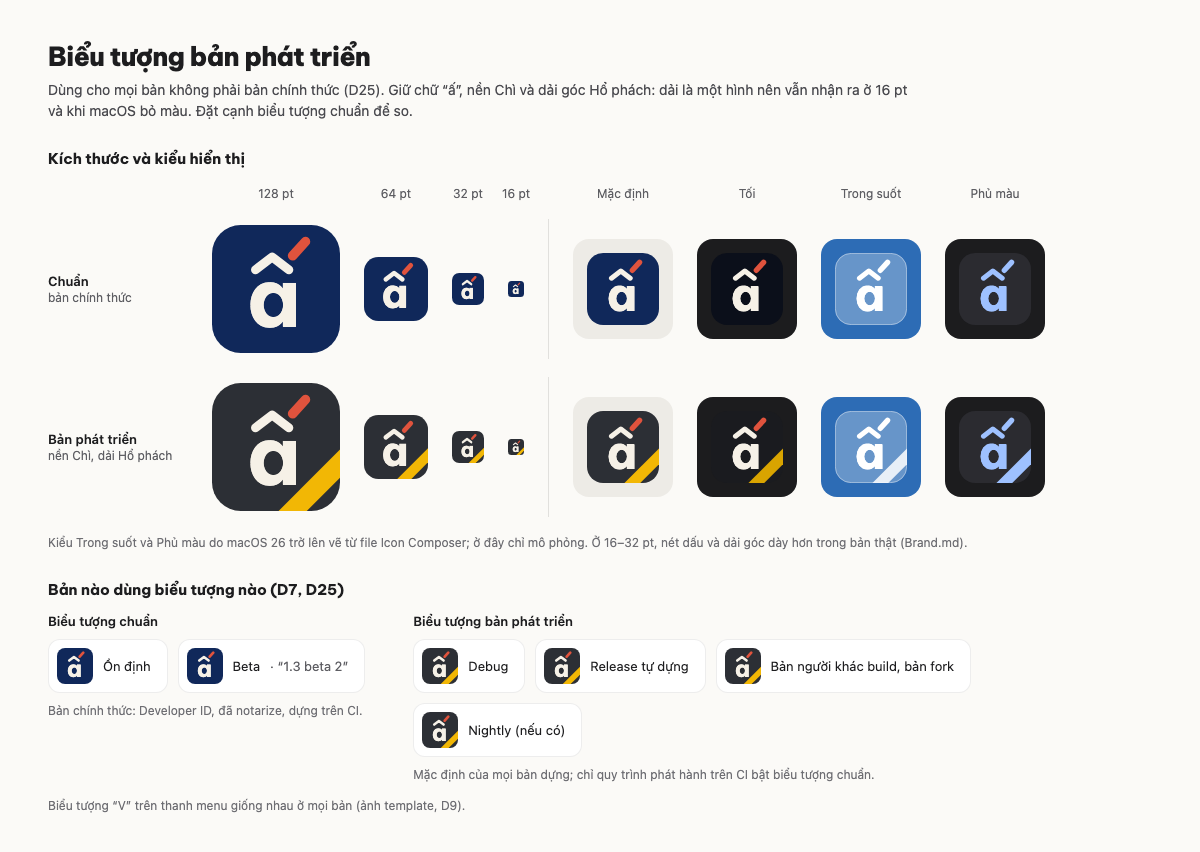
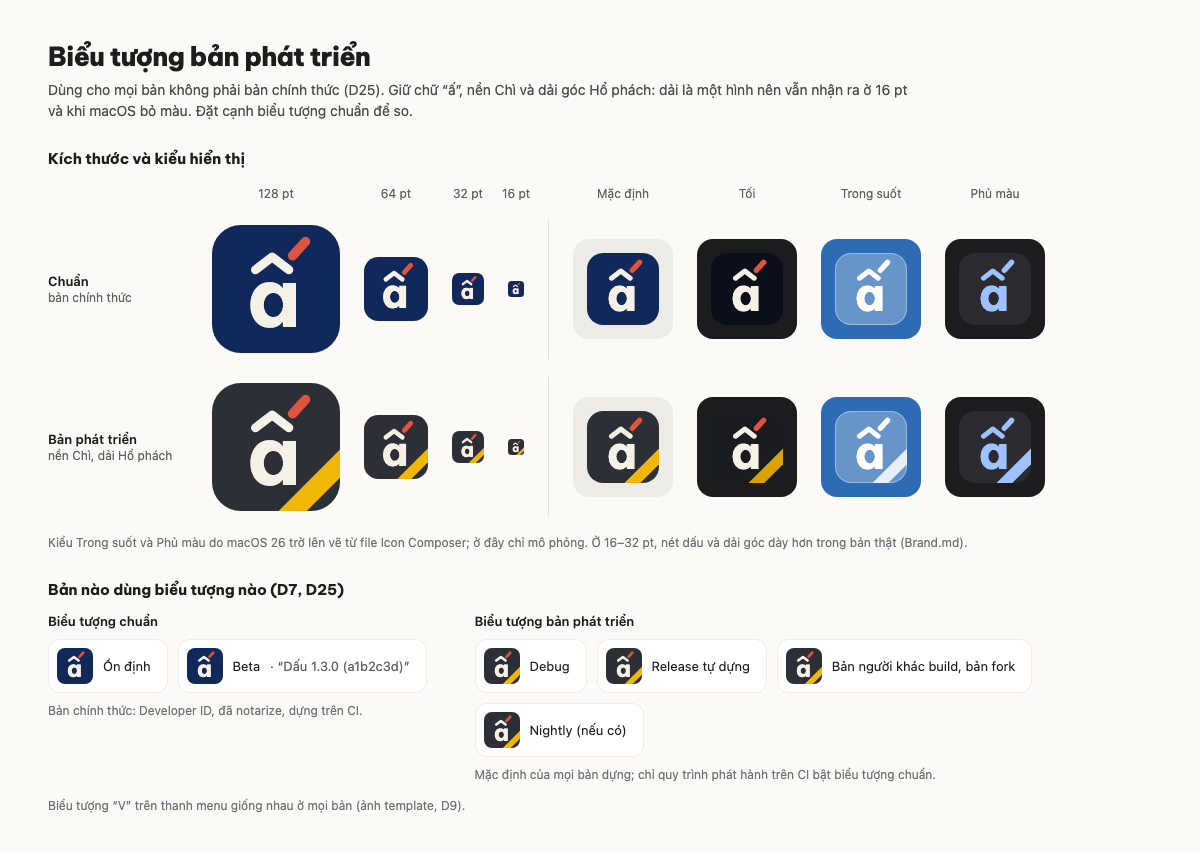
build(release): numeric display version; stable release is the last beta's binary
Follow Apple's numbering (D7, D25): CFBundleShortVersionString is always
X.Y.Z, "beta N" lives only in the tag, the GitHub pre-release title and the
appcast, and betas are told apart by the commit in parentheses. A stable tag
no longer rebuilds: it must sit on the last beta's commit, and the new
promote-release.sh drafts the stable release from that beta's DMG and dSYMs
(renamed, re-checked with codesign, stapler and spctl), leaving the appcast
as is.

- build-release.sh: X.Y.Z for every tag, no +1 for stable, refuses a stable
  tag and a second beta tag on the same commit; new output "label".
- release.yml: beta tags build, stable tags run promote-release.sh.
- Guard hook and scripts/README.md: promote-release.sh, side effect
  "changes GitHub".
- Releasing.md: beta and stable paths; the cask follows the newest published
  release while there is one channel.
- Canvas: Beta label on the development icon artboard.

Checked: zsh -n; --unsigned build of v0.1.0-beta.1 gives
CFBundleShortVersionString 0.1.0; v0.1.0 and a second beta on one commit
are refused. promote-release.sh past the gh download needs a published beta
(Releasing.md, "Còn phải thấy chạy thật").

Changed region(s): [[0.2467, 0.7019, 0.8325, 0.9155]]

diff --git a/docs/canvas/src/AppIconDev.dc.html b/docs/canvas/src/AppIconDev.dc.html
@@ -70,7 +70,7 @@ body{margin:0}
 <span class="lab">Biểu tượng chuẩn</span>
 <div style="display: flex; gap: 10px; flex-wrap: wrap">
 <span class="chip"><svg width="36" height="36" viewBox="0 0 100 100" aria-hidden="true"><rect width="100" height="100" rx="22.4" fill="#10285A"></rect><text x="48" y="80" text-anchor="middle" font-family="'Be Vietnam Pro', -apple-system, 'Helvetica Neue', sans-serif" font-weight="700" font-size="64" fill="#F6F1E7">a</text><path d="M34 35 L47 25 L60 35" fill="none" stroke="#F6F1E7" stroke-width="7" stroke-linecap="round" stroke-linejoin="round"></path><path d="M63 24 L73 13" fill="none" stroke="#E0533D" stroke-width="7.5" stroke-linecap="round"></path></svg>Ổn định</span>
-<span class="chip"><svg width="36" height="36" viewBox="0 0 100 100" aria-hidden="true"><rect width="100" height="100" rx="22.4" fill="#10285A"></rect><text x="48" y="80" text-anchor="middle" font-family="'Be Vietnam Pro', -apple-system, 'Helvetica Neue', sans-serif" font-weight="700" font-size="64" fill="#F6F1E7">a</text><path d="M34 35 L47 25 L60 35" fill="none" stroke="#F6F1E7" stroke-width="7" stroke-linecap="round" stroke-linejoin="round"></path><path d="M63 24 L73 13" fill="none" stroke="#E0533D" stroke-width="7.5" stroke-linecap="round"></path></svg>Beta <span style="color: #5e5e63">· “1.3 beta 2”</span></span>
+<span class="chip"><svg width="36" height="36" viewBox="0 0 100 100" aria-hidden="true"><rect width="100" height="100" rx="22.4" fill="#10285A"></rect><text x="48" y="80" text-anchor="middle" font-family="'Be Vietnam Pro', -apple-system, 'Helvetica Neue', sans-serif" font-weight="700" font-size="64" fill="#F6F1E7">a</text><path d="M34 35 L47 25 L60 35" fill="none" stroke="#F6F1E7" stroke-width="7" stroke-linecap="round" stroke-linejoin="round"></path><path d="M63 24 L73 13" fill="none" stroke="#E0533D" stroke-width="7.5" stroke-linecap="round"></path></svg>Beta <span style="color: #5e5e63">· “Dấu 1.3.0 (a1b2c3d)”</span></span>
 </div>
 <span class="hint">Bản chính thức: Developer ID, đã notarize, dựng trên CI.</span>
 </div>

diff --git a/docs/Releasing.md b/docs/Releasing.md
@@ -8,11 +8,12 @@ Phiên chính và subagent không cầm khoá: chứng chỉ, khoá App Store Co
 
 | Thành phần | Ở đâu |
 |---|---|
-| Script dựng bản phát hành (archive, xuất Developer ID, notarize, staple, DMG, appcast) | `scripts/release/build-release.sh` |
+| Script dựng bản phát hành (archive, xuất Developer ID, notarize, staple, DMG, appcast) |release/build-release.sh` |/| Script dựng một bản beta (archive, xuất Developer ID, notarize, staple, DMG, appcast) | `scripts/release/build-release.sh` |
+| Script quảng bá beta cuối thành bản ổn định (sao tài sản, không dựng) | `scripts/release/promote-release.sh` |/release/build-release.sh` |
 | Kiểm một bản build (biểu tượng, ký hiệu, khoá Sparkle, bộ gõ, chữ ký) | `scripts/release/check-build.sh` |
 | Sắp xếp cửa sổ DMG bằng Finder (chỉ CI) | `scripts/release/layout-dmg.sh` |
 | Test ở mỗi lần đẩy mã | `.github/workflows/test.yml` |
-| Tag `v*` dựng bản nháp trên GitHub Releases | `.github/workflows/release.yml` |
+| Tag `v*`: beta dựng bản nháp, bản ổn định quảng bá beta cuối, trên GitHub Releases | `.github/workflows/release.yml` |
 | Appcast, thư mục gốc của project Vercel | `site/appcast.xml` |
 
 Cách gọi và tuỳ chọn của từng script nằm ở đầu script.
@@ -52,25 +53,47 @@ Cách gọi và tuỳ chọn của từng script nằm ở đầu script.
 
 ## Phát hành một tag
 
+Hai đường theo tag; mọi tag bắt đầu bằng `v` và theo dạng dưới đây, dạng khác bị từ chối.
+
+| Tag | Số hiển thị (`CFBundleShortVersionString`) | Workflow làm gì |
+|---|---|---|
+| `v0.1.0-beta.1` | 0.1.0 | dựng một bản beta (đường beta, dưới) |
+| `v0.1.0-beta.2` | 0.1.0 | dựng một bản beta, trên commit mới |
+| `v0.1.0` | 0.1.0 (cùng tệp với beta cuối) | quảng bá beta cuối, không dựng (đường ổn định, dưới) |
+
+Số hiển thị luôn là ba số nguyên `X.Y.Z`, chữ "beta N" chỉ nằm ngoài tệp nhị phân: tên tag, tiêu đề bản phát hành trên GitHub (D7).
+
+### Đường beta
+
 1. Chắc chắn `main` xanh (workflow Test) và đã commit mọi thứ của bản này.
-2. Tag và đẩy tag: số hiển thị lấy từ tag (D7). Với hai bản thử của kế hoạch M7 bước 2, việc này công bố chúng lên appcast, nên cần người dùng đồng ý trước khi đẩy tag.
+2. Tag và đẩy tag. Với hai bản thử của kế hoạch M7 bước 2, việc này công bố chúng lên appcast, nên cần người dùng đồng ý trước khi đẩy tag.
 
    ```sh
    git tag v0.1.0-beta.1
    git push origin v0.1.0-beta.1
    ```
 
-   | Tag | Số hiển thị (`CFBundleShortVersionString`) |
-   |---|---|
-   | `v0.1.0-beta.1` | 0.1.0 beta 1 |
-   | `v1.3.0` | 1.3.0 |
-
-   Dạng khác bị từ chối.
-3. Workflow Release dựng bản ký, rồi tạo **bản nháp** trên GitHub Releases (đánh dấu pre-release nếu tag có `-beta.`) kèm DMG, dSYM và `appcast.xml` đã thêm bản mới. Chưa có gì được công bố: người dùng chưa thấy gì. Thiếu secret thì workflow dựng bản không ký (dưới) và chỉ lưu DMG thành artifact của lần chạy (7 ngày), không tạo bản nháp.
+   Mỗi beta cần một commit mới: script từ chối tag beta lên commit đã có tag beta khác, vì cùng commit thì cùng số build.
+3. Workflow Release dựng bản ký, rồi tạo **bản nháp** pre-release trên GitHub Releases (tiêu đề "Dấu 0.1.0 beta 1") kèm DMG, dSYM và `appcast.xml` đã thêm bản mới. Chưa có gì được công bố: người dùng chưa thấy gì. Thiếu secret thì workflow dựng bản không ký (dưới) và chỉ lưu DMG thành artifact của lần chạy (7 ngày), không tạo bản nháp.
 4. Kiểm bản nháp: log của workflow in từng bước đã làm hay bỏ qua, và `summary.txt`. Thử mở DMG đã tải về.
-5. **Công bố** (người dùng đồng ý một lần cho bản thử đầu, theo kế hoạch M7 bước 4): bấm Publish release trên GitHub; chép `appcast.xml` từ tài sản của bản đó vào `site/appcast.xml`, commit, đẩy lên `main` để Vercel xuất bản. Làm theo thứ tự này: nếu appcast lên trước, Sparkle trỏ vào địa chỉ DMG chưa có. Rồi cập nhật cask Homebrew ở `codefastlabs/homebrew-tap`.
+5. **Công bố** (người dùng đồng ý một lần cho bản thử đầu, theo kế hoạch M7 bước 4): bấm Publish release trên GitHub; chép `appcast.xml` từ tài sản của bản đó vào `site/appcast.xml`, commit, đẩy lên `main` để Vercel xuất bản. Làm theo thứ tự này: nếu appcast lên trước, Sparkle trỏ vào địa chỉ DMG chưa có. Rồi cập nhật cask Homebrew ở `codefastlabs/homebrew-tap` trỏ vào DMG của bản này: khi chỉ có một kênh, cask theo bản mới nhất đã công bố, kể cả beta (bản thử đầu là beta và phải cài được bằng `brew`, Roadmap M7). Khi có kênh Beta (D7), cask chỉ theo bản ổn định.
 
-**Số build.** `CFBundleVersion` mặc định là mười lần số commit của HEAD (`git rev-list --count`), cộng 1 với tag ổn định, nên tăng theo lịch sử, và bản ổn định dựng lại từ đúng commit của bản beta cuối (D7) vẫn lớn hơn số của beta đó. Cờ `--build-number` của script đặt số khác khi cần.
+### Đường ổn định (quảng bá beta cuối)
+
+Bản ổn định là tệp nhị phân của bản beta cuối, giữ nguyên, không dựng lại (như bản ứng viên của Apple): cùng DMG, chữ ký, vé notarize và `CFBundleVersion`. Muốn sửa gì sau beta cuối thì phát thêm một beta, không sửa rồi tag bản ổn định.
+
+1. Beta cuối đã công bố (bước 5 ở trên): item của nó đã nằm trong `site/appcast.xml` cho mọi người, nên bản ổn định **không thêm item** vào appcast (cùng `sparkle:version`). Khi có kênh Beta (sau bản thử đầu, D7) thì đổi kênh của item; chưa làm.
+2. Tag **đúng commit của tag beta cuối** rồi đẩy tag:
+
+   ```sh
+   git tag v0.1.0 v0.1.0-beta.2
+   git push origin v0.1.0
+   ```
+
+   Workflow Release chạy `scripts/release/promote-release.sh`: tìm tag `v0.1.0-beta.N` cùng commit (N lớn nhất), tải DMG và dSYM của bản phát hành đó, đổi tên thành `Dau-0.1.0.dmg` và `Dau-0.1.0.dSYMs.zip` (đổi tên không đổi chữ ký hay vé notarize: cả hai nằm trên nội dung DMG; script kiểm lại bằng `codesign`, `stapler validate`, `spctl` và số hiển thị của Dau.app trong DMG), rồi tạo **bản nháp** không pre-release. Script từ chối khi tag không trỏ vào commit của tag beta nào, khi beta chưa công bố, hay khi đã có bản phát hành cùng tag. Chạy thử trên máy mà không tạo gì: `scripts/release/promote-release.sh --tag v0.1.0 --dry-run`.
+3. **Công bố:** bấm Publish release trên GitHub. Không đụng `site/appcast.xml`. Rồi cập nhật cask Homebrew ở `codefastlabs/homebrew-tap` trỏ vào DMG của bản ổn định (D6).
+
+**Số build.** `CFBundleVersion` mặc định là mười lần số commit của HEAD (`git rev-list --count`), nên tăng theo lịch sử; mỗi bản dựng một số, và số này cùng commit trong ngoặc phân biệt các beta của một phiên bản (chúng cùng số hiển thị). Bản ổn định không có số riêng: nó mang số của beta cuối. Cờ `--build-number` của script đặt số khác khi cần.
 
 ## Chế độ không ký
 
@@ -99,3 +122,5 @@ Bố cục (kích thước cửa sổ, vị trí biểu tượng, nền) nằm t
 ## Còn phải thấy chạy thật
 
 Phần ký, notarize, staple, `layout-dmg.sh` và `generate_appcast` ký thật cần tài khoản hoặc Finder nên chưa chạy ở máy phát triển; chế độ không ký đã chạy trọn tới DMG. Lần thấy chúng chạy đầu tiên là bước 2 của kế hoạch M7 (hai tag thử sau bước 0): sửa script theo log của lần đó.
+
+Đường quảng bá (`promote-release.sh`) cũng chưa chạy thật: cần một bản beta đã công bố trên GitHub (bước 2 của kế hoạch M7) để `gh release download`, kiểm `codesign` / `stapler` / `spctl` trên tệp đã đổi tên và tạo bản nháp. Lần thấy nó chạy đầu tiên là lúc quảng bá beta cuối của 0.1.0: chạy `--dry-run` trước, và sửa script hay tài liệu này theo log. Việc đổi tên DMG không làm hỏng chữ ký hay vé notarize là suy từ cách hai thứ này gắn vào nội dung tệp; `--dry-run` là lần kiểm thật.

diff --git a/docs/Roadmap.md b/docs/Roadmap.md
@@ -27,7 +27,7 @@ Kế hoạch của các mốc này: [`docs/history/Plans.md`](history/Plans.md).
 
 ## M7 — Phát hành
 
-Mục tiêu: bản thử đầu "0.1.0 beta 1" (D7 (Cập nhật và loại bản dựng)) tới tay người dùng qua DMG, Sparkle và Homebrew. Kế hoạch theo bước và việc của từng bên: [`docs/Progress.md`](Progress.md) mục "Kế hoạch M7"; phần đã xong và còn lại cũng theo mục đó, danh sách dưới đây không đánh dấu từng dòng.
+Mục tiêu: bản thử đầu (tag `v0.1.0-beta.1`, D7 (Cập nhật và loại bản dựng)) tới tay người dùng qua DMG, Sparkle và Homebrew. Kế hoạch theo bước và việc của từng bên: [`docs/Progress.md`](Progress.md) mục "Kế hoạch M7"; phần đã xong và còn lại cũng theo mục đó, danh sách dưới đây không đánh dấu từng dòng.
 
 - Trước khi phát hành: chạy bài đo của D42, và ghi bộ nhớ (RSS) tiến trình bộ gõ của bản Release cạnh số của bản Debug trong cùng lượt (D42 ghi chênh lệch này là chưa đo).
 - Ký Developer ID, notarize, DMG.
@@ -39,7 +39,7 @@ Mục tiêu: bản thử đầu "0.1.0 beta 1" (D7 (Cập nhật và loại bả
 - Loại bản dựng (D7, D25 (Nhận diện)):
   - cờ build chọn biểu tượng chuẩn, chỉ quy trình phát hành trên CI đặt: bản build phát hành truyền `DAU_OFFICIAL=YES` cho `xcodebuild` (`project.yml`), rồi kiểm bản build: `CFBundleIconName` của Dấu.app và bộ gõ là `AppIcon`, không phải `AppIconDev`;
   - cũng bước kiểm đó: binary của Dấu.app và bộ gõ đã lược ký hiệu cục bộ (`nm`; archive lược, `xcodebuild build` thì không), và dSYM của mỗi bản phát hành được lưu lại để đọc được báo lỗi crash;
-  - số build tăng dần, số hiển thị có chữ beta.
+  - số build tăng dần, số hiển thị ba số không có chữ beta; bản ổn định là tệp của beta cuối, không dựng lại.
 - `.gitignore`: ghim phiên bản Sparkle chính xác trong `project.yml` (vì `Package.resolved` bị bỏ qua); thêm `*.p8`, `*.pem`, `*.key`, `*.p12`, `*.xcarchive`.
 - Biểu tượng thật dựng bằng Icon Composer, thay biểu tượng tạm ([`docs/Brand.md`](Brand.md), mục "Hiện trạng").
 - Xuất các file nhận diện bản thử đầu cần theo [`docs/Brand.md`](Brand.md): biểu tượng app, biểu tượng bản phát triển, ảnh template thanh menu, ảnh xem trước GitHub, nền DMG. Favicon, ảnh Open Graph và thẻ meta đi cùng website (M8).
@@ -51,7 +51,7 @@ Mục tiêu: bản thử đầu "0.1.0 beta 1" (D7 (Cập nhật và loại bả
   - máy để tiếng Anh hẳn (menu app, tên "Dấu" trong Finder);
   - các sheet ở chế độ tối;
   - danh sách "+" của System Settings có Dấu (nhìn bằng mắt).
-- Xong khi: bản 0.1.0 beta 1 có trên GitHub Releases, cài được từ DMG và bằng `brew install --cask codefastlabs/tap/dau`, Sparkle cập nhật được từ một bản chính thức trước đó; kiểm toán ĐẠT.
+- Xong khi: bản `v0.1.0-beta.1` có trên GitHub Releases, cài được từ DMG và bằng `brew install --cask codefastlabs/tap/dau`, Sparkle cập nhật được từ một bản chính thức trước đó; kiểm toán ĐẠT.
 
 ### Sau bản thử đầu
 

diff --git a/docs/history/DecisionsLog.md b/docs/history/DecisionsLog.md
@@ -94,6 +94,7 @@ Lưu trữ cách từng nguyên tắc và quyết định trong `docs/Decisions.
 
 - 17/11/2026 (người dùng chốt khi lập kế hoạch M7): thêm URL appcast `https://dau.codefastlabs.com/appcast.xml` (chọn thay cho GitHub Pages, buộc URL vào GitHub, và `releases/latest/download`, không tính bản prerelease); chỉ bản chính thức có URL appcast; kênh Beta bật trong app, không có cask riêng; bản thử đầu "0.1.0 beta 1". Ba ý về loại bản đến từ câu hỏi mở "Loại bản dựng".
 - 17/11/2026 (người dùng chọn khi duyệt artboard M7): cửa sổ chuẩn của Sparkle thay cho thẻ cập nhật sáu trạng thái và thông báo tự vẽ (artboard "Trạng thái thẻ cập nhật", "Thông báo cập nhật" bỏ khỏi canvas); chỉ kiểm tra lúc Dấu mở; không cài ngầm. Bản trước, nguyên văn: "Cài bản mới lúc người dùng không gõ, sau đó dừng tiến trình bộ gõ cũ để hệ thống nạp bản mới; cách thay bộ gõ đã cài ở D37, ý "Thay bộ gõ đã cài"." Phương án đã loại: giữ bản tự vẽ (cần user driver riêng); thêm kiểm tra khi Dấu không mở (tiến trình nền, để sau bản thử đầu).
+- 18/11/2026 (người dùng chốt, từ so sánh với cách Apple đánh số phiên bản): số hiển thị luôn là ba số nguyên, chữ beta chỉ ở tag, GitHub và appcast; bản ổn định là tệp nhị phân của beta cuối, không dựng lại; bản thử đầu là tag `v0.1.0-beta.1`, số hiển thị "0.1.0". Bản trước, nguyên văn: "**Số phiên bản:** `CFBundleVersion` là số build tăng dần, Sparkle so sánh bằng số này; số hiển thị dạng "1.3.0 beta 2", tag git dạng `v1.3.0-beta.2`; bản ổn định dựng lại từ cùng commit với bản beta cuối, số hiển thị không có chữ beta. Bản thử đầu là "0.1.0 beta 1" (tag `v0.1.0-beta.1`)." Phương án đã loại: giữ chữ beta trong số hiển thị (bản ổn định phải dựng lại, thành tệp chưa ai chạy).
 - 17/11/2026 (người dùng đồng ý đề xuất của phiên chính): thêm "Hệ quả đã chấp nhận" về ⌘Q giữa lúc cài (Sparkle cài lúc thoát mà không mở lại Dấu); app-ui-dev phát hiện khi đọc `SPUUserDriver.h` lúc nối Sparkle. Phương án đã loại: thêm mã ép mở lại Dấu sau khi cài.
 
 ### D8. Không telemetry
@@ -230,6 +231,7 @@ Lưu trữ cách từng nguyên tắc và quyết định trong `docs/Decisions.
 - 05/11/2026: "Biểu tượng theo loại bản (người dùng chốt 05/11/2026, các loại bản ở D7)".
 - 05/11/2026: dải chéo Hổ phách ở góc dưới phải ("người dùng chọn 05/11/2026 giữa dải góc và nền sọc; nền sọc mất ở 16–32 pt và ở kiểu Trong suốt").
 - 17/11/2026 (người dùng chốt, từ câu hỏi mở "Loại bản dựng"): bản phát triển giữ tên "Dấu".
+- 18/11/2026 (theo D7 cùng ngày): bản Beta phân biệt bằng commit trong ngoặc thay vì số phiên bản. Bản trước, nguyên văn: "Kênh Beta dùng biểu tượng chuẩn, phân biệt bằng số phiên bản ("1.3.0 beta 2") ở trang Cập nhật & hỗ trợ và trong báo lỗi điền sẵn (D8 (Không telemetry))."
 
 ### D26. Gõ đúp phím dấu
 
